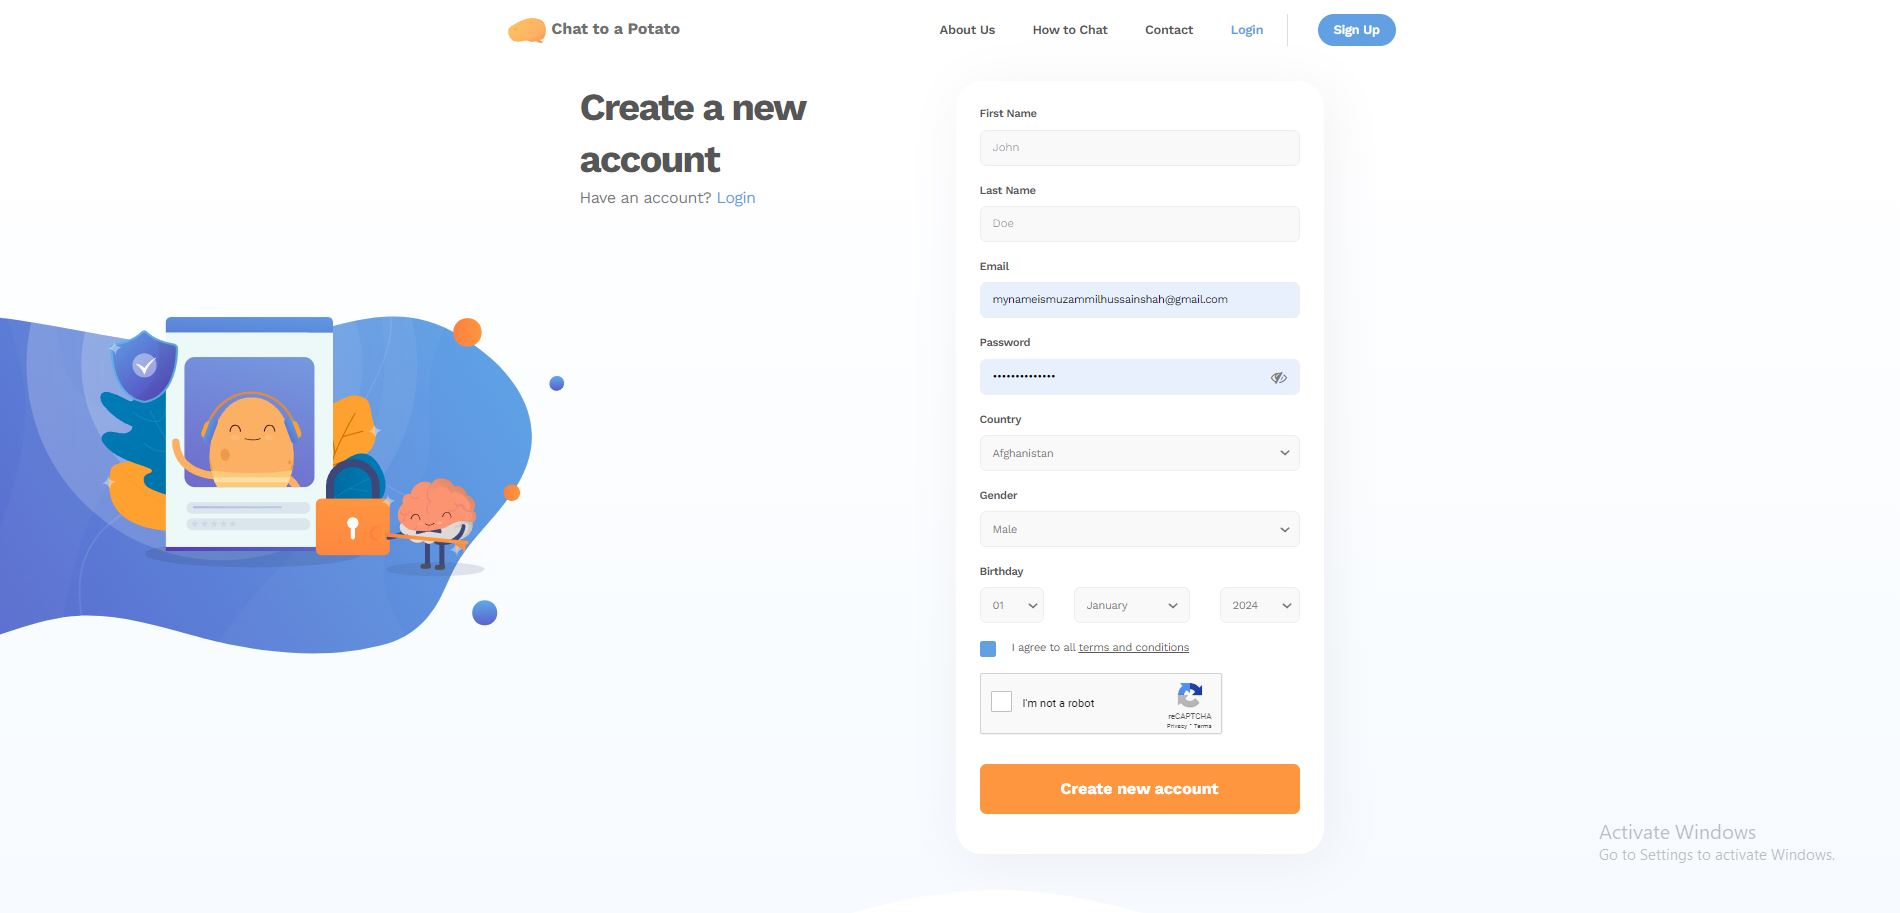
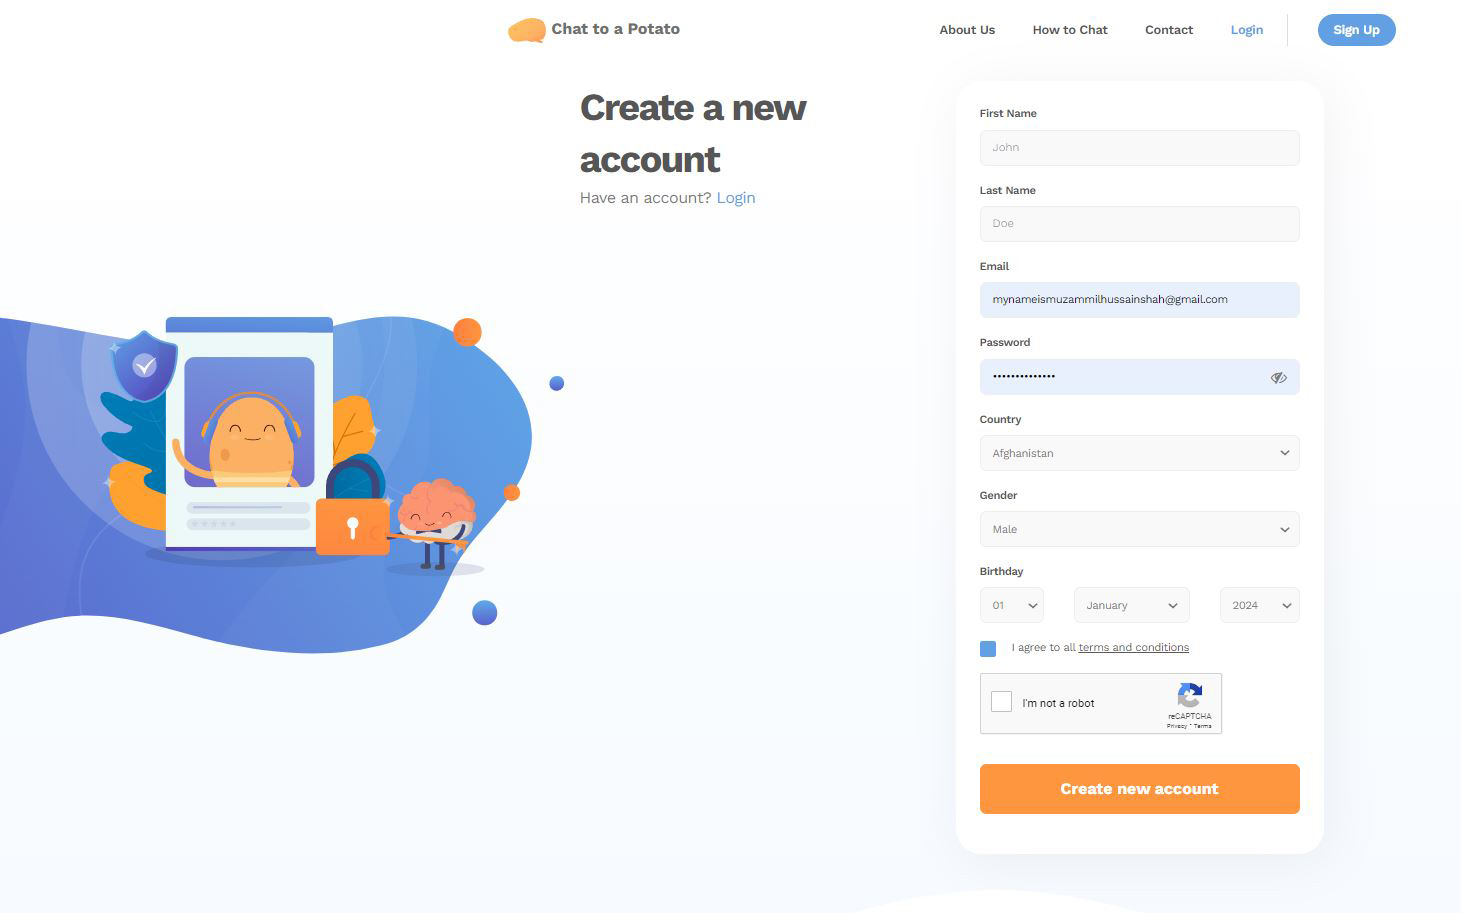
Authentication section [ADD]

diff --git a/src/components/Authentication.tsx b/src/components/Authentication.tsx
@@ -1,0 +1,85 @@
+import { FC } from "react";
+
+const Authentication: FC = () => {
+  return (
+    <section>
+      <div className="maincontainer">
+        <div className="flex flex-col gap-y-6">
+          <div className="font-poppins font-bold lg:body1 text-[#7c5c34] py-2 w-[10rem] rounded-[1.2rem] bg-[#fea1308a] text-center">Authentication</div>
+          <div className="font-bold  text-head  text-h4 lg:text-h1">Sign Up & Login</div>
+          <div className="font-poppins font-semibold lg:text-li text-paraColor md:text-paraGraphMedium">Detailed wireframes incorporate the final design elements, ensuring a visually appealing and functional user interface.</div>
+        </div>
+        <div className="w-full flex justify-between  my-7">
+          <div className="w-[49%] p-2 shadow-2xl bg-[#5e95e0] rounded-lg">
+            <img
+              style={{ aspectRatio: '5/3' }} src="images/chattopotato/signUp.JPG" alt="Chattopotatologo" />
+          </div >
+          <div className="w-[49%]  p-2  shadow-2xl  bg-[#5e95e0] rounded-lg">
+            <img src="images/chattopotato/login.JPG"
+              style={{ aspectRatio: '5/3' }}
+              alt="Chattopotatologo" />
+          </div>
+        </div>
+      </div>
+      <div className="my-28 relative">
+        <div className="maincontainer flex">
+          <div className="w-1/2 flex flex-col gap-y-3 justify-center">
+            <div className="font-poppins font-bold lg:body1 text-head py-2 w-[10rem] rounded-lg bg-[#eb56531f] text-center">Popular Tools</div>
+            <div className="font-bold text-[#eb5553] text-h4 lg:text-h3">Post a question</div>
+            <div className="font-poppins font-semibold lg:text-li  text-paraColor md:text-paraGraphMedium">Detailed wireframes incorporate the final design elements, ensuring a visually appealing and functional user interface.</div>
+          </div>
+          <div className="w-1/2 flex justify-end ">
+            <div className="w-[97%] p-2 shadow-2xl bg-[#5e95e0] rounded-lg">
+              <img src="images/chattopotato/login.JPG"
+                style={{ aspectRatio: '5/3' }}
+                alt="Chattopotatologo" />
+            </div>
+          </div>
+        </div>
+        <div className="absolute top-20 right-0 ">
+          <img src="images/chattopotato/rigthArrow.jpg" className="w-[6rem]" alt="" />
+        </div>
+      </div>
+      <div className="my-28 relative">
+        <div className="maincontainer flex">
+          <div className="w-1/2 flex justify-end ">
+            <div className="w-[97%] p-2 shadow-2xl bg-[#5e95e0] rounded-lg">
+              <img src="images/chattopotato/login.JPG"
+                style={{ aspectRatio: '5/3' }}
+                alt="Chattopotatologo" />
+            </div>
+          </div>
+          <div className="w-1/2 flex flex-col gap-y-3 justify-center items-end">
+            <div className="w-[90%]">
+              <div className="font-poppins font-bold lg:body1 text-head py-2 w-[10rem] rounded-lg bg-[#eb56531f] text-center">Popular Tools</div>
+              <div className="font-bold text-[#eb5553] text-h4 lg:text-h3">Post a question</div>
+              <div className="font-poppins font-semibold lg:text-li  text-paraColor md:text-paraGraphMedium">Detailed wireframes incorporate the final design elements, ensuring a visually appealing and functional user interface.</div>
+            </div>
+          </div>
+        </div>
+        <div className="absolute top-20 left-0 ">
+          <img src="images/chattopotato/leftArrow.jpg" className="w-[6rem]" alt="" />
+        </div>
+      </div>
+      <div className="maincontainer flex my-28">
+        <div className="w-1/2 flex relative flex-col gap-y-3 justify-center">
+          <div className="absolute top-0 right-0 ">
+            <img src="images/chattopotato/centerArrow.jpg" className="w-[6rem]" alt="" />
+          </div>
+          <div className="font-poppins font-bold lg:body1 text-head py-2 w-[10rem] rounded-lg bg-[#eb56531f] text-center">Popular Tools</div>
+          <div className="font-bold text-[#eb5553] text-h4 lg:text-h3">AI Detector</div>
+          <div className="font-poppins font-semibold lg:text-li  text-paraColor md:text-paraGraphMedium">Detailed wireframes incorporate the final design elements, ensuring a visually appealing and functional user interface.</div>
+        </div>
+        <div className="w-1/2 flex justify-end ">
+          <div className="w-[97%] p-2 shadow-2xl bg-[#5e95e0] rounded-lg">
+            <img src="images/chattopotato/login.JPG"
+              style={{ aspectRatio: '5/3' }}
+              alt="Chattopotatologo" />
+          </div>
+        </div>
+      </div>
+    </section>
+  );
+};
+
+export default Authentication;
